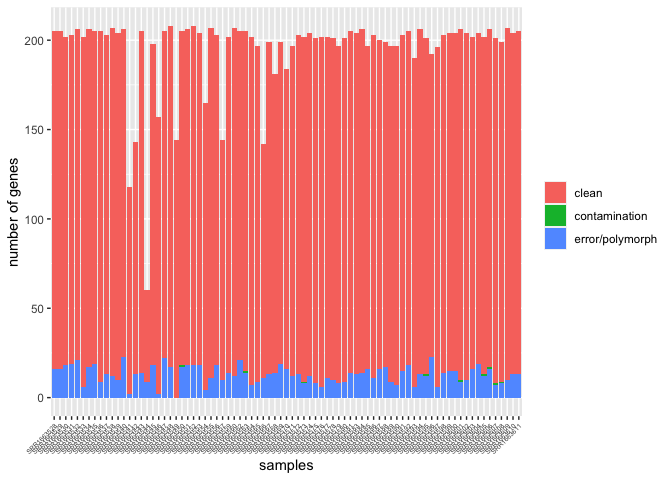
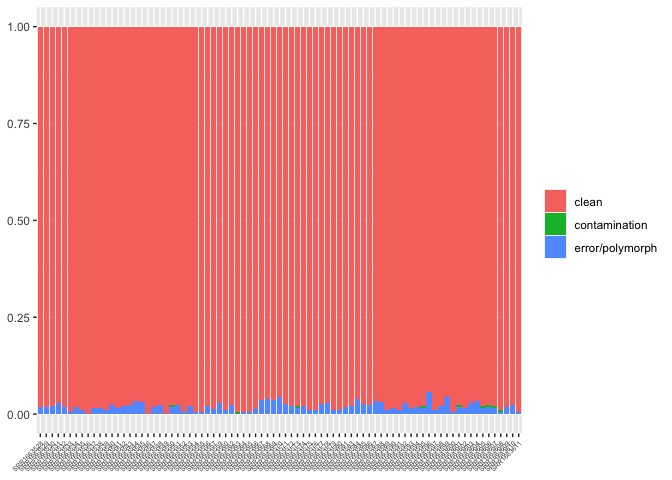
new main figure: worldwide distribution of 2040A

Changed region(s): [[0.0, 0.0, 0.7812, 1.0], [0.8125, 0.375, 1.0, 0.5625]]

diff --git a/rmd-files/world-wide_2040A-distribution.md b/rmd-files/world-wide_2040A-distribution.md
@@ -25,7 +25,7 @@ for i in *.mpileup;do n=${i%.mpileup};java -ea -Xmx7g -jar /Volumes/Temp3/filip/
 ###sceener:
 cd ../../sync
 mkdir ../screen
-for i in *.sync;do n=${i%.sync};python /Volumes/Temp2/filip/2040A/programs/2040A_P-element/helper-scripts/contamination-screener.py --sync $i --snp /Volumes/Temp2/filip/2040A/results/diagnostic_SNPs/define/withPop_Dmel-scg.SNPs --min-cov 5 > ../screen/${n}.SNPtest;done
+for i in *.sync;do n=${i%.sync};python /Volumes/Temp2/filip/2040A/programs/2040A_P-element/helper-scripts/contamination-screener.py --sync $i --snp /Volumes/Temp2/filip/2040A/results/diagnostic_SNPs/define/withPop_Dmel-scg.SNPs --min-cov 5 --min-freq 0.90 > ../screen/${n}.SNPtest;done
 cd ../screen
 mkdir ../forR
 for i in *SNPtest;do n=${i%.SNPtest};awk -v a="$n" '{print a,$6}' $i|sort|uniq -c;done > ../forR/summary.forR
@@ -41,10 +41,19 @@ for i in *.PPI251.raw; do n=${i%.sort.bam.PPI251.raw}; cat $i|awk '$3==2039'|awk
 
 ``` r
 library(ggplot2)
+
 t<-read.table("/Volumes/Temp2/filip/2040A/results/gdl/diagnostic_SNPs-testing/forR/summary.forR")
 names(t)<-c("count","sample","status")
 
-g<-ggplot(t, aes(x=sample, y=count,fill=status)) + geom_bar(stat = "identity")+ylab("number of genes")+xlab("samples")+theme(legend.title = element_blank(), axis.text.x = element_text(angle=45,vjust = 1,hjust = 1,size=5)) #
+for (sid in unique(t$sample)) { 
+  i <- t$sample == sid
+  a = sum(t$count[i])
+  t$sum[i] = a
+}
+
+t$freq<-t$count/t$sum
+
+g<-ggplot(t, aes(x=sample, y=freq,fill=status)) + geom_bar(stat = "identity")+theme(legend.title = element_blank(), axis.text.x = element_text(angle=45,vjust = 1,hjust = 1,size=5),axis.title = element_blank())
 
 plot(g)
 ```
@@ -52,5 +61,69 @@ plot(g)
 ![](world-wide_2040A-distribution_files/figure-gfm/unnamed-chunk-2-1.png)<!-- -->
 
 ``` r
-ggsave("/Volumes/Temp2/filip/2040A/results/diagnostic_SNPs/figures/SNPtest-count_overview-GDL.pdf",width=9,height=6)
+ggsave("/Volumes/Temp2/filip/2040A/results/diagnostic_SNPs/figures/SNPtest_overview-GDL.pdf",width=12,height=6)
+ggsave("/Volumes/Temp2/filip/2040A/results/diagnostic_SNPs/figures/SNPtest_overview-GDL.png",width=12,height=6)
+
+
+
+#plot 2040 SNP on worldmap:
+library(dplyr)
+```
+
+    ## 
+    ## Attaching package: 'dplyr'
+
+    ## The following objects are masked from 'package:stats':
+    ## 
+    ##     filter, lag
+
+    ## The following objects are masked from 'package:base':
+    ## 
+    ##     intersect, setdiff, setequal, union
+
+``` r
+library(scatterpie)
+
+t<-read.table("/Volumes/Temp2/filip/2040A/results/gdl/worldmap/ppi251/forR/2040A.raw")
+names(t)<-c("count","coverage","sra")
+t<-subset(t,sra!="SRR1769729") ##high coverage replicate of ZW155 (not needed)
+t<-subset(t,sra!="SRR1663610") ##ZW184 (SRR1663610) reported to be of non-African origin (excluded)
+
+d<-read.table("/Volumes/Temp2/filip/2040A/ref/metadata-GDL.txt",sep="\t")
+names(d)<-c("sra","id","year","location","latitude","longitude","study","estimated_year")
+
+td<-left_join(t,d,by="sra")
+td$freq<-td$count/td$coverage
+td[is.na(td)] <- 0
+
+for (sid in unique(td$location)) { 
+  i <- td$location == sid
+  a = mean(td$freq[i])
+  td$S[i] = a
+}
+td<-subset(td,select=c("location","latitude","longitude","S"))
+td<-unique(td)
+td$M<-1-td$S
+
+world_map = map_data("world")
+g<-ggplot(world_map, aes(x = long, y = lat, group = group)) +
+  geom_polygon(fill="lightgray", colour = "white") +
+  geom_scatterpie(aes(longitude, y=latitude), data = td,cols=c("S", "M")) +
+  scale_fill_discrete(labels = c("2040A", "2040G"))+xlab("longitude")+ylab("latitude")+
+  theme(legend.title=element_blank())
+
+plot(g)
+```
+
+    ## Warning: Using the `size` aesthetic in this geom was deprecated in ggplot2 3.4.0.
+    ## ℹ Please use `linewidth` in the `default_aes` field and elsewhere instead.
+    ## This warning is displayed once every 8 hours.
+    ## Call `lifecycle::last_lifecycle_warnings()` to see where this warning was
+    ## generated.
+
+![](world-wide_2040A-distribution_files/figure-gfm/unnamed-chunk-2-2.png)<!-- -->
+
+``` r
+ggsave("/Volumes/Temp2/filip/2040A/results/figures/SNP_distribution-GDL.pdf",width=9,height=5)
+ggsave("/Volumes/Temp2/filip/2040A/results/figures/SNP_distribution-GDL.pdf",width=9,height=5)
 ```
